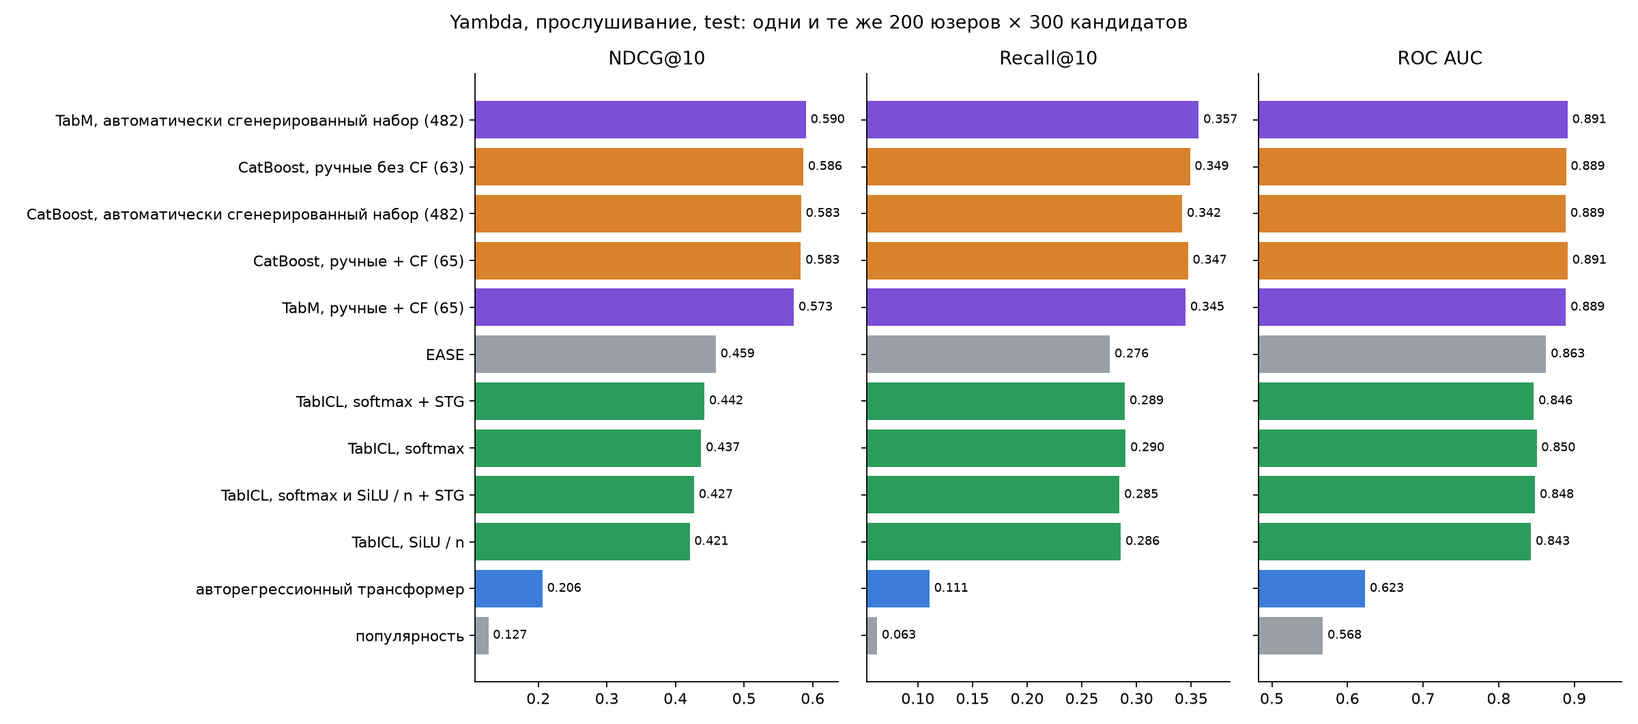
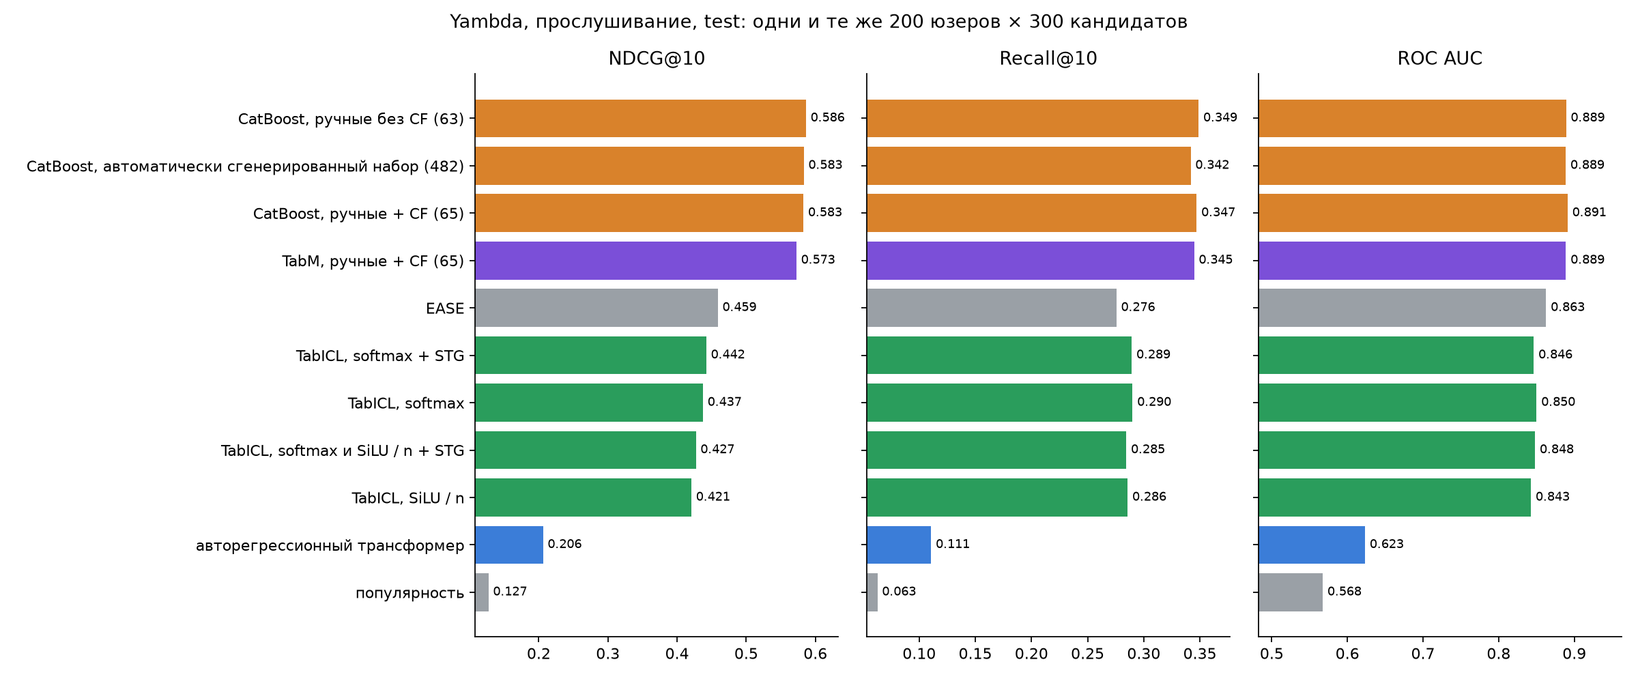
finished the report

diff --git a/5_report/figures.py b/5_report/figures.py
@@ -31,7 +31,6 @@ NAMES = {
     "boosting_yetirank_hand": "CatBoost, ручные без CF",
     "boosting_yetirank_auto": "CatBoost, автоматически сгенерированный набор",
     "tabm_all": "TabM, ручные + CF",
-    "tabm_auto": "TabM, автоматически сгенерированный набор",
     "neural_transformer": "авторегрессионный трансформер",
     "tabicl_softmax": "TabICL, softmax",
     "tabicl_counts": "TabICL, SiLU / n",
@@ -39,7 +38,7 @@ NAMES = {
     "tabicl_full": "TabICL, softmax и SiLU / n + STG",
 }
 TITLES = {"ndcg@10": "NDCG@10", "recall@10": "Recall@10", "roc_auc": "ROC AUC"}
-MARKERS = ["o", "s", "o", "s", "^", "o", "^", "o", "o", "s", "^", "D"]
+MARKERS = ["o", "s", "o", "s", "^", "o", "o", "o", "s", "^", "D"]
 FAMILY = {"popularity": "#9aa0a6", "ease": "#9aa0a6", "boosting": "#d9822b", "tabm": "#7b4fd8", "neural": "#3b7dd8", "tabicl": "#2a9d5c"}
 
 

diff --git a/report.md b/report.md
@@ -15,6 +15,8 @@
 - **Recall@10** смотрит, какую долю досмотренного десятка вообще поймала.
 - **ROC AUC** сравнивает все пары сразу. Поэтому он чувствителен к тому, сопоставимы ли скоры между разными пользователями, а не только к порядку внутри одного пользователя.
 
+Для нейросетей я, конечно же, ещё логировал loss.
+
 Первый бейзлайн – популярность. Каждому пользователю она выдаёт один и тот же список: фильмы, у которых до окна больше всего разных досмотревших. Это нижняя граница, но на KION она сильная, потому что у многих пользователей истории нет совсем, и предложить им что-то лучше популярного нечем.
 
 Второй бейзлайн – EASE [Steck, 2019](https://arxiv.org/abs/1905.03375), линейный автоэнкодер над матрицей «пользователь на товар». В замкнутой форме он выучивает матрицу «товар на товар» с нулевой диагональю, и скор кандидата равен сумме весов от товаров, которые пользователь уже посмотрел. Признаков и атрибутов у него нет. Я взял его, потому что это самый простой метод, который учит парное распределение товаров, и по нему видно, сколько информации это распределение даёт само по себе.
@@ -85,12 +87,12 @@
 ## Предобучение на синтетике
 И самое главное, модели можно предобучать на синтетических данных, чтобы научить их работать с композитными задачами, где нужно неявно учить разные распределения и выражать разные операции. Action space всех операций не такой уж и большой, поэтому табличные значения можно создавать синтетически не очень сложными методами. Предобученные так модели получают нужные прайоры для дообучения под конкретную задачу или для работы с любыми табличными данными. На этом были построены TabPFN [Hollmann et al., 2025](https://doi.org/10.1038/s41586-024-08328-6), TabICL [Qu et al., 2025](https://arxiv.org/abs/2502.05564) и, для реляционных баз, PluRel [Kothapalli et al., 2026](https://arxiv.org/abs/2602.04029) и RDB-PFN [Wang et al., 2026](https://arxiv.org/abs/2603.03805). Я беру веса TabICL, которые авторы предобучили на синтетических таблицах.
 ## Результаты
-Все модели я сравнивал на одних и тех же 200 тестовых пользователях, у каждого 300 кандидатов. TabICL считается долго, поэтому тест у него только на них, и остальные модели я считал на тех же, чтобы сравнение было честным.
+Все модели я сравнивал на одних и тех же 200 тестовых пользователях, у каждого 300 кандидатов. TabICL считается долго, поэтому тест у него только на них, и остальные модели я считал на тех же, чтобы сравнение было честным. Тест из-за этого маленький, и близкие модели на нём могут поменяться местами. На Yambda я взял тысячу пользователей с самыми длинными историями и 20 тысяч самых популярных треков, так что выводы по ней относятся к активным пользователям. Так же стоит отметить, что гейты и свёртку без нормировки в TabICL я добавил только на дообучении, предобученная модель их не видела.
 ### KION
 ![Метрики на тесте KION](5_report/figures/kion_test_metrics.png)
 *Рис. 1. Метрики на тесте KION. Оранжевым бустинг, фиолетовым TabM, синим трансформер, зелёным TabICL, серым популярность и EASE. В скобках число признаков.*
 
-На KION лучше всех бустинг со скорами EASE и kNN. Без этих скоров он опускается до уровня самого EASE, так что коллаборативная фильтрация даёт ему заметную часть качества. Автоматически сгенерированный набор признаков хуже ручного. TabM на тех же признаках, что и бустинг, чуть лучше бустинга. А вот трансформер над историей проиграл даже популярности. TabICL лучше трансформера, но тоже чуть ниже популярности. Из его вариантов лучше всех обычный softmax: свёртка без нормировки, гейты и их сочетание дают меньше.
+На KION лучше всех бустинг со скорами EASE и kNN. Без этих скоров он опускается до уровня самого EASE, так что коллаборативная фильтрация даёт ему заметную часть качества. Автоматически сгенерированный набор признаков хуже ручного. TabM на тех же признаках, что и бустинг, чуть лучше бустинга. А вот трансформер над историей проиграл даже популярности. TabICL лучше трансформера, но тоже чуть ниже популярности. Из его вариантов лучше всех обычный softmax: свёртка без нормировки, гейты и их сочетание дают меньше. Recall@10 упорядочивает модели почти так же, как NDCG@10. По ROC AUC TabICL обходит и популярность, и EASE: он выдаёт вероятность, и она сравнима между пользователями, а скоры EASE у разных пользователей несопоставимы. Если смотреть на логарифмированный лосс на всех трёх таргетах, лучше всех будет TabM, потом TabICL, потом трансформер.
 
 ![Валидация по ходу обучения KION](5_report/figures/kion_val_curves.png)
 *Рис. 2. NDCG@10 на валидации по ходу обучения: слева по числу деревьев CatBoost, справа по эпохам нейросетей. Звездой отмечена эпоха, которая идёт на тест.*
@@ -98,9 +100,9 @@
 ![Линейные пробы KION](5_report/figures/kion_probes.png)
 *Рис. 3. Линейные пробы на KION: R² ridge-регрессии из скрытого состояния пары в каждый ручной агрегат на отложенной половине пар.*
 
-Чтобы посмотреть, что трансформер считает сам, я поставил линейные пробы: ridge-регрессию из скрытого состояния пары в каждый ручной агрегат. Лучше всего читается число досмотров фильма за всё время. Его сеть выучивает через эмбеддинг и смещение фильма, которые обучаются на метках всех пользователей. Счётчики пользователя читаются хуже. Число событий пары почти не читается, хотя это просто количество одного фильма в истории пользователя. Доли жанра и страны в истории, то есть деление одного счётчика на другой, тоже почти не читаются.
+Чтобы посмотреть, что трансформер считает сам, я поставил линейные пробы: ridge-регрессию из скрытого состояния пары в каждый ручной агрегат. Лучше всего читается число досмотров фильма за всё время. Его сеть выучивает через эмбеддинг фильма и обучаемое число фильма, которое прибавляется к скору любого пользователя. И то и другое учится на метках всех пользователей. Счётчики пользователя читаются хуже. Число событий пары почти не читается, хотя это просто количество одного фильма в истории пользователя. Доли жанра и страны в истории, то есть деление одного счётчика на другой, тоже почти не читаются.
 
-У TabICL пробы выглядят иначе. Счётчики пользователя и фильма читаются из его состояния хорошо, число событий пары тоже, потому что строки контекста с тем же фильмом и тем же пользователем стоят у него на входе. Почти всё это есть уже у предобученной модели до дообучения, то есть счёт он принёс из предобучения. Хуже всего читаются доли жанра и страны и конверсия фильма, и дообучение их почти не поднимает: деление он так и не собирает. Гейты на KION закрыли бит «смотрел ли пользователь этот фильм», вместе с ним из состояния пропало число событий пары, и этот вариант на тесте оказался худшим.
+У TabICL пробы выглядят иначе. Счётчики пользователя и фильма читаются из его состояния хорошо, число событий пары тоже, потому что строки контекста с тем же фильмом и тем же пользователем стоят у него на входе. Почти всё это есть уже у предобученной модели до дообучения, то есть счёт он принёс из предобучения. Хуже всего читаются доли жанра и страны и конверсия фильма: операцию деления он так и не начинает распознавать.
 
 ![Важность блоков признаков KION](5_report/figures/kion_importance.png)
 *Рис. 4. Просадка NDCG@10 на валидации, если перемешать одну колонку, просуммированная по блокам признаков. Модель CatBoost на ручных признаках без скоров EASE и kNN.*
@@ -113,7 +115,7 @@
 ![Метрики на тесте Yambda, лайк](5_report/figures/yambda_like_test_metrics.png)
 *Рис. 6. Метрики на тесте Yambda, таргет: лайк.*
 
-На Yambda разрыв ещё больше. На прослушиваниях все три варианта бустинга почти одинаковые и сильно впереди, TabM на тех же признаках немного отстаёт от них, за ними EASE, потом трансформер, и в самом конце популярность. Лайков на порядок меньше, чем прослушиваний, и там бустинг впереди уже в несколько раз, а EASE, трансформер и популярность почти неразличимы. Автоматически сгенерированный набор у бустинга здесь работает так же, как мой обычный, а TabM на нём немного обходит бустинг на обоих таргетах. TabICL на прослушиваниях чуть хуже EASE и сильно лучше трансформера, а на лайках обходит EASE и трансформер в несколько раз, но всё равно примерно вдвое отстаёт от бустинга. Среди его вариантов на прослушиваниях гейты чуть лучше softmax, остальные хуже, а на лайках softmax лучше всех.
+На Yambda разрыв ещё больше. На прослушиваниях все три варианта бустинга почти одинаковые и сильно впереди, TabM на тех же признаках немного отстаёт от них, за ними EASE, потом трансформер, и в самом конце популярность. Лайков на порядок меньше, чем прослушиваний, и там бустинг впереди уже в несколько раз, а трансформер и необучаемые бейзлайны почти неразличимы. Автоматически сгенерированный набор у бустинга здесь работает так же, как мой обычный. TabICL на прослушиваниях чуть хуже EASE и сильно лучше трансформера, а на лайках обходит EASE и трансформер в несколько раз, но всё равно примерно вдвое отстаёт от бустинга. Разница в производительности решений похожа на то, что с KION, разве что выучиваемые гейты помогли чуть лучше.
 
 ![Важность блоков признаков Yambda, прослушивание](5_report/figures/yambda_listen_importance.png)
 *Рис. 7. Важность блоков признаков на Yambda, прослушивание.*
@@ -134,7 +136,7 @@
 ![Размер модели и качество](5_report/figures/sizes.png)
 *Рис. 11. NDCG@10 на тесте против числа обучаемых чисел. У CatBoost это число деревьев, умноженное на 64 листа и 6 порогов, у EASE матрица «товар на товар», у популярности одно число на товар.*
 
-Помимо приличного размера, TabICL ещё и обучается в разы дольше остальных. На каждую пару он заново собирает и прогоняет 64 строки контекста, хотя у одного пользователя этот контекст почти одинаковый для всех 300 кандидатов, а бустинг считает счётчик пользователя один раз. То есть модель каждый раз заново агрегирует одно и то же, и на один пример у неё уходит гораздо больше вычислений. На KION эпоха идёт дольше, чем на Yambda, потому что в строке KION стоят четыре атрибута пользователя и три атрибута фильма, а в Yambda у пользователей атрибутов нет, и от трека я беру только совпадение исполнителя и альбома. Таблица KION выходит вдвое шире, а внимание между признаками строки растёт с квадратом числа колонок.
+Помимо приличного размера, TabICL ещё и обучается в разы дольше остальных. На каждую пару он заново собирает и прогоняет 64 строки контекста, хотя у одного пользователя этот контекст почти одинаковый для всех 300 кандидатов, а бустинг считает счётчик пользователя один раз. То есть модель каждый раз заново агрегирует одно и то же, и на один пример у неё уходит гораздо больше вычислений. На KION эпоха идёт дольше, чем на Yambda, потому что в строке KION стоят четыре атрибута пользователя и три атрибута фильма, а в Yambda у пользователей атрибутов нет, и от трека я беру только совпадение исполнителя и альбома. Таблица KION выходит вдвое шире, а внимание между признаками строки растёт с квадратом числа колонок. Стоит так же отметить, что CatBoost на KION учится десятки минут на процессоре Мака, на Yambda несколько минут. В то же время TabICL, TabM и трансформер учились примерно по часу на A100.
 ## Итог
 Ручные признаки выигрывают у глубоких моделей по двум причинам.
 
@@ -142,8 +144,10 @@
 
 Вторая – выразительность. На Yambda трансформер видит всю нужную историю, но не собирает из неё ни число повторов, ни доли, то есть ни количество, ни деление. Перебор агрегатов эти дыры не закрывает, и размер модели здесь ни при чём.
 
-Но проигрывать аггрегациям глубокая модель не обязана. Аггрегаты выигрывают, потому что человек заранее вложил в признаки знание о том, какие агрегаты нужны: сколько раз, за какое окно, какая доля. У глубокой модели такое знание может прийти из предобучения. TabICL предобучен на синтетических таблицах и приходит к задаче уже с прайорами: как выглядят распределения колонок, как признаки одной строки взаимодействуют между собой, как предсказать строку по похожим строкам рядом. Строки других пользователей в контексте дают ему статистику, которой нет в истории, и счётчики пользователя, фильма и пары он собирает из них уже до дообучения. Поэтому TabICL обходит трансформер на всех трёх таргетах, а на лайках Yambda ещё и EASE. Модели без таких прайоров и без контекста, даже глубокие, проигрывают: трансформеру над историей приходится с нуля и по одному датасету учить и сами операции, и то, какие из них нужны.
+Но проигрывать аггрегациям глубокая модель не обязана. Аггрегаты выигрывают, потому что человек заранее вложил в признаки знание о том, какие агрегаты нужны: сколько раз, за какое окно, какая доля. У глубокой модели такое знание может прийти из предобучения. TabICL предобучен на синтетических таблицах, а строки других пользователей в контексте дают ему статистику, которой нет в истории, поэтому счётчики пользователя, фильма и пары он собирает уже до дообучения и обходит трансформер на всех трёх таргетах. 
 
-До бустинга TabICL всё же не дотягивает. Доли и конверсию, то есть деление, он не собирает ни после предобучения, ни после дообучения. Свёртка без нормировки и гейты, которые я добавил только на дообучении, лучше обычного softmax его не сделали, кроме гейтов на прослушиваниях, где разница маленькая. Значит, за несколько эпох на одном датасете эти прайоры не выучиваются, и закладывать их надо при предобучении на синтетике, где задач на счёт и деление много. Так что TabICL уже близко, но не настолько, чтобы заменить ручные признаки: дальше его нужно тюнить и предобучать на тех операциях, которые он сейчас не ловит.
+Модели без таких прайоров и без контекста, даже глубокие, проигрывают. Трансформер видит только историю самого пользователя, поэтому на KION он ниже популярности, а на Yambda в разы отстаёт от бустинга. Все прошлые прослушивания пары стоят у него на входе, но их число из его состояния почти не читается, а у TabICL, в контексте которого есть строки с тем же треком, читается. 
+
+До бустинга TabICL всё же не дотягивает: доли и конверсию, а это как раз-таки деление, он не собирает. Разбирая, почему так вышло, я посмотрел, есть ли в синтетике, на которой его предобучали, операции, из которых складываются важные ручные признаки. Оказывается, как раз деления и агрегатов там нет. То есть данные предобучения не совпадают с тем, что нужно в рекомендациях, и это у меня одна из гипотез, почему не получилось выровняться с бустингами. Свёртка без нормировки и гейты, которые я добавил только на дообучении, его не улучшили, значит, такие вещи следует всё же закладывать при предобучении.
 
 Спасибо за внимание, надеюсь на подробный фидбэк по работе.

diff --git a/README.md b/README.md
@@ -1,12 +1,14 @@
 # tlab-recsys
 
+Отчёт: [report.md](report.md).
+
 Запуск:
 
 ```bash
 pip install -r requirements.txt
 ```
 
-Готовые таблицы KION (`data/*.parquet`) и Yambda (`runs/yambda_listen/data`, `runs/yambda_like/data`) лежат в репозитории. Сравнение моделей на всех трёх наборах запускает один скрипт. На Маке он вызывает `run_mac.sh` с популярностью, EASE и CatBoost, а на NVIDIA вызывает `run_a100.sh` с TabM, тремя вариантами TabICL и трансформером:
+Готовые таблицы KION (`data/*.parquet`) и Yambda (`runs/yambda_listen/data`, `runs/yambda_like/data`) лежат в репозитории. Сравнение моделей на всех трёх наборах запускает один скрипт. На Маке он вызывает `run_mac.sh` с популярностью, EASE и CatBoost, а на NVIDIA вызывает `run_a100.sh` с TabM, четырьмя вариантами TabICL и трансформером:
 
 ```bash
 bash run_comparison.sh
